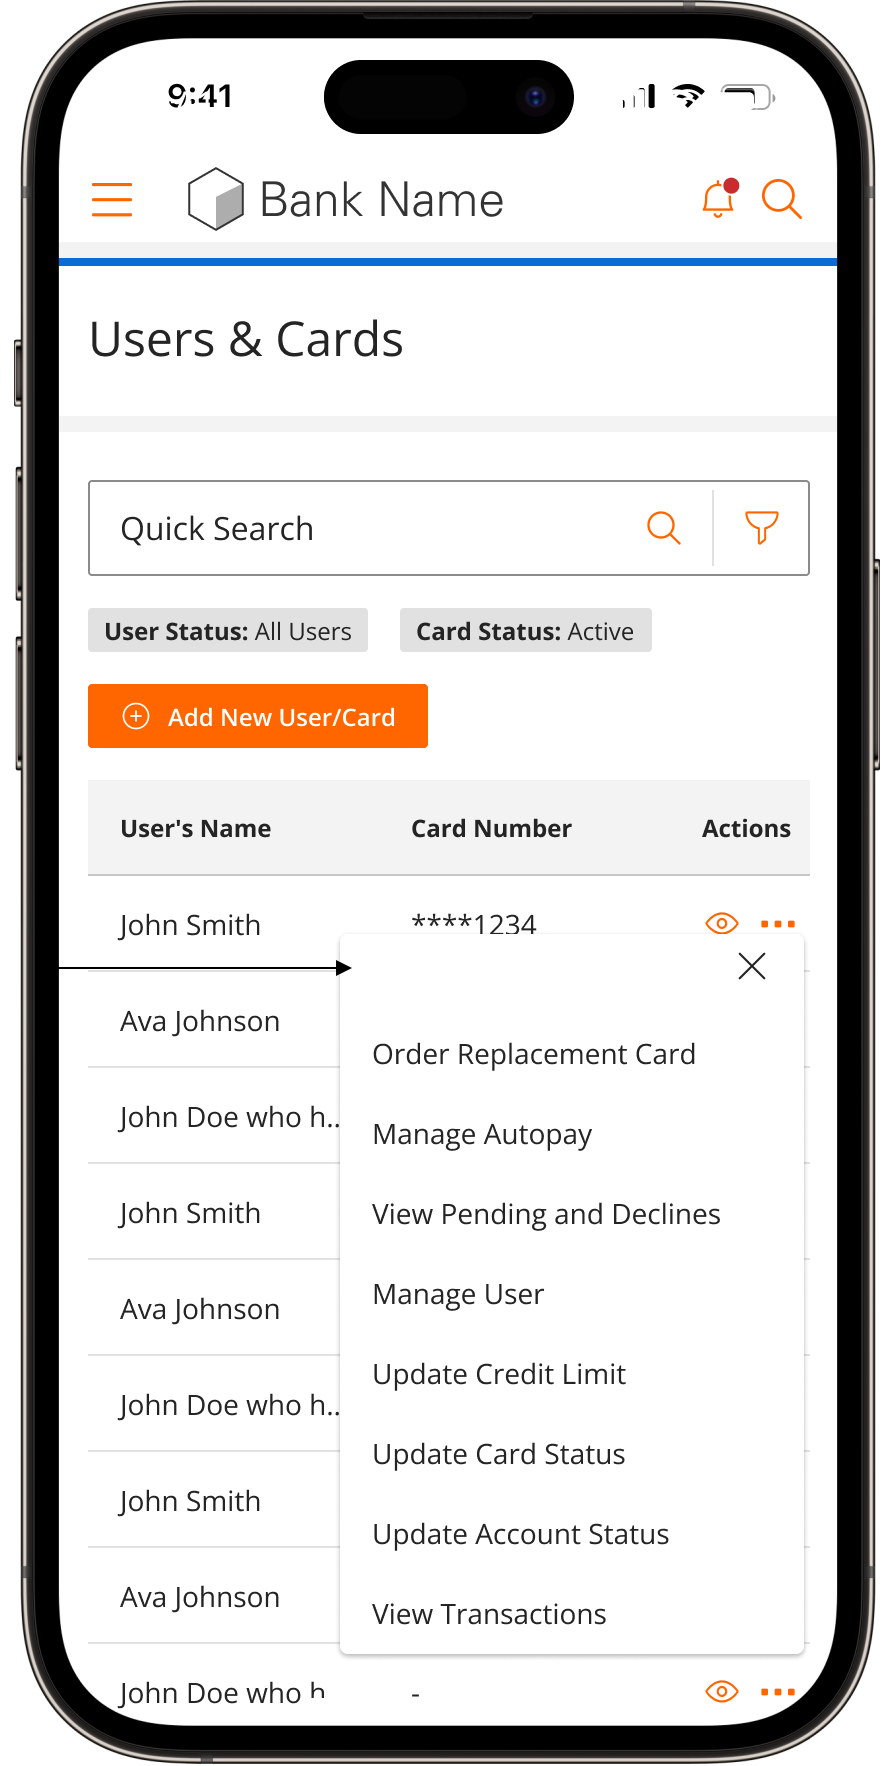
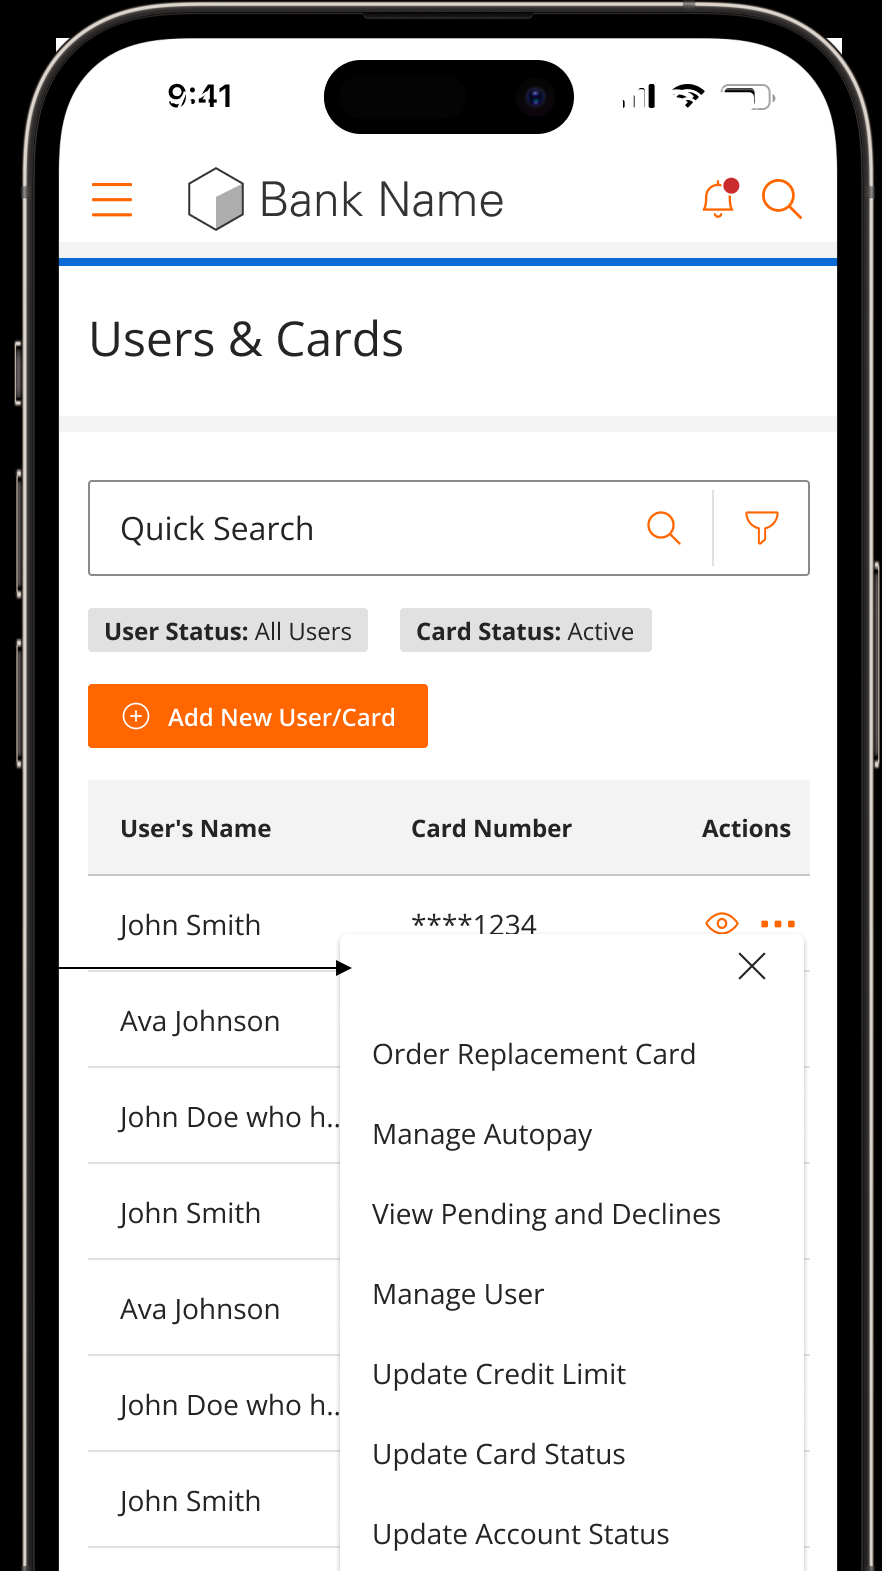
Match 360 Solution 6 phone sizes by normalizing aspect ratio
The two mobile screenshots had different aspect ratios (0.561 vs 0.499),
so equal-width columns rendered the second phone taller. Crop c360-m2 to
match c360-m1's aspect (882x1571), and revert the layout to a simple
equal-width grid. Both phones now render the same size.

diff --git a/360 Control.dc.html b/360 Control.dc.html
@@ -378,9 +378,9 @@
           <!-- Solution 6: Mobile -->
           <div data-reveal="1" style="border-top: 1px solid #ECEDF1; padding: 36px 0;">
             <div style="display: grid; grid-template-columns: 1fr 1fr; gap: 48px; align-items: center;">
-              <div style="display: flex; gap: 20px; align-items: center; justify-content: center;">
-                <img src="assets/c360-m1.png" alt="360 Control mobile, program admin navigation" style="display: block; height: 380px; width: auto; max-width: 50%;">
-                <img src="assets/c360-m2.png" alt="360 Control mobile, users and cards with quick actions" style="display: block; height: 380px; width: auto; max-width: 50%;">
+              <div style="display: grid; grid-template-columns: 1fr 1fr; gap: 20px; align-items: start;">
+                <img src="assets/c360-m1.png" alt="360 Control mobile, program admin navigation" style="display: block; width: 100%; height: auto;">
+                <img src="assets/c360-m2.png" alt="360 Control mobile, users and cards with quick actions" style="display: block; width: 100%; height: auto;">
               </div>
               <div>
                 <div style="font-family: 'JetBrains Mono', monospace; font-size: 11px; color: #155DFC; margin-bottom: 10px;">SOLUTION 06</div>
